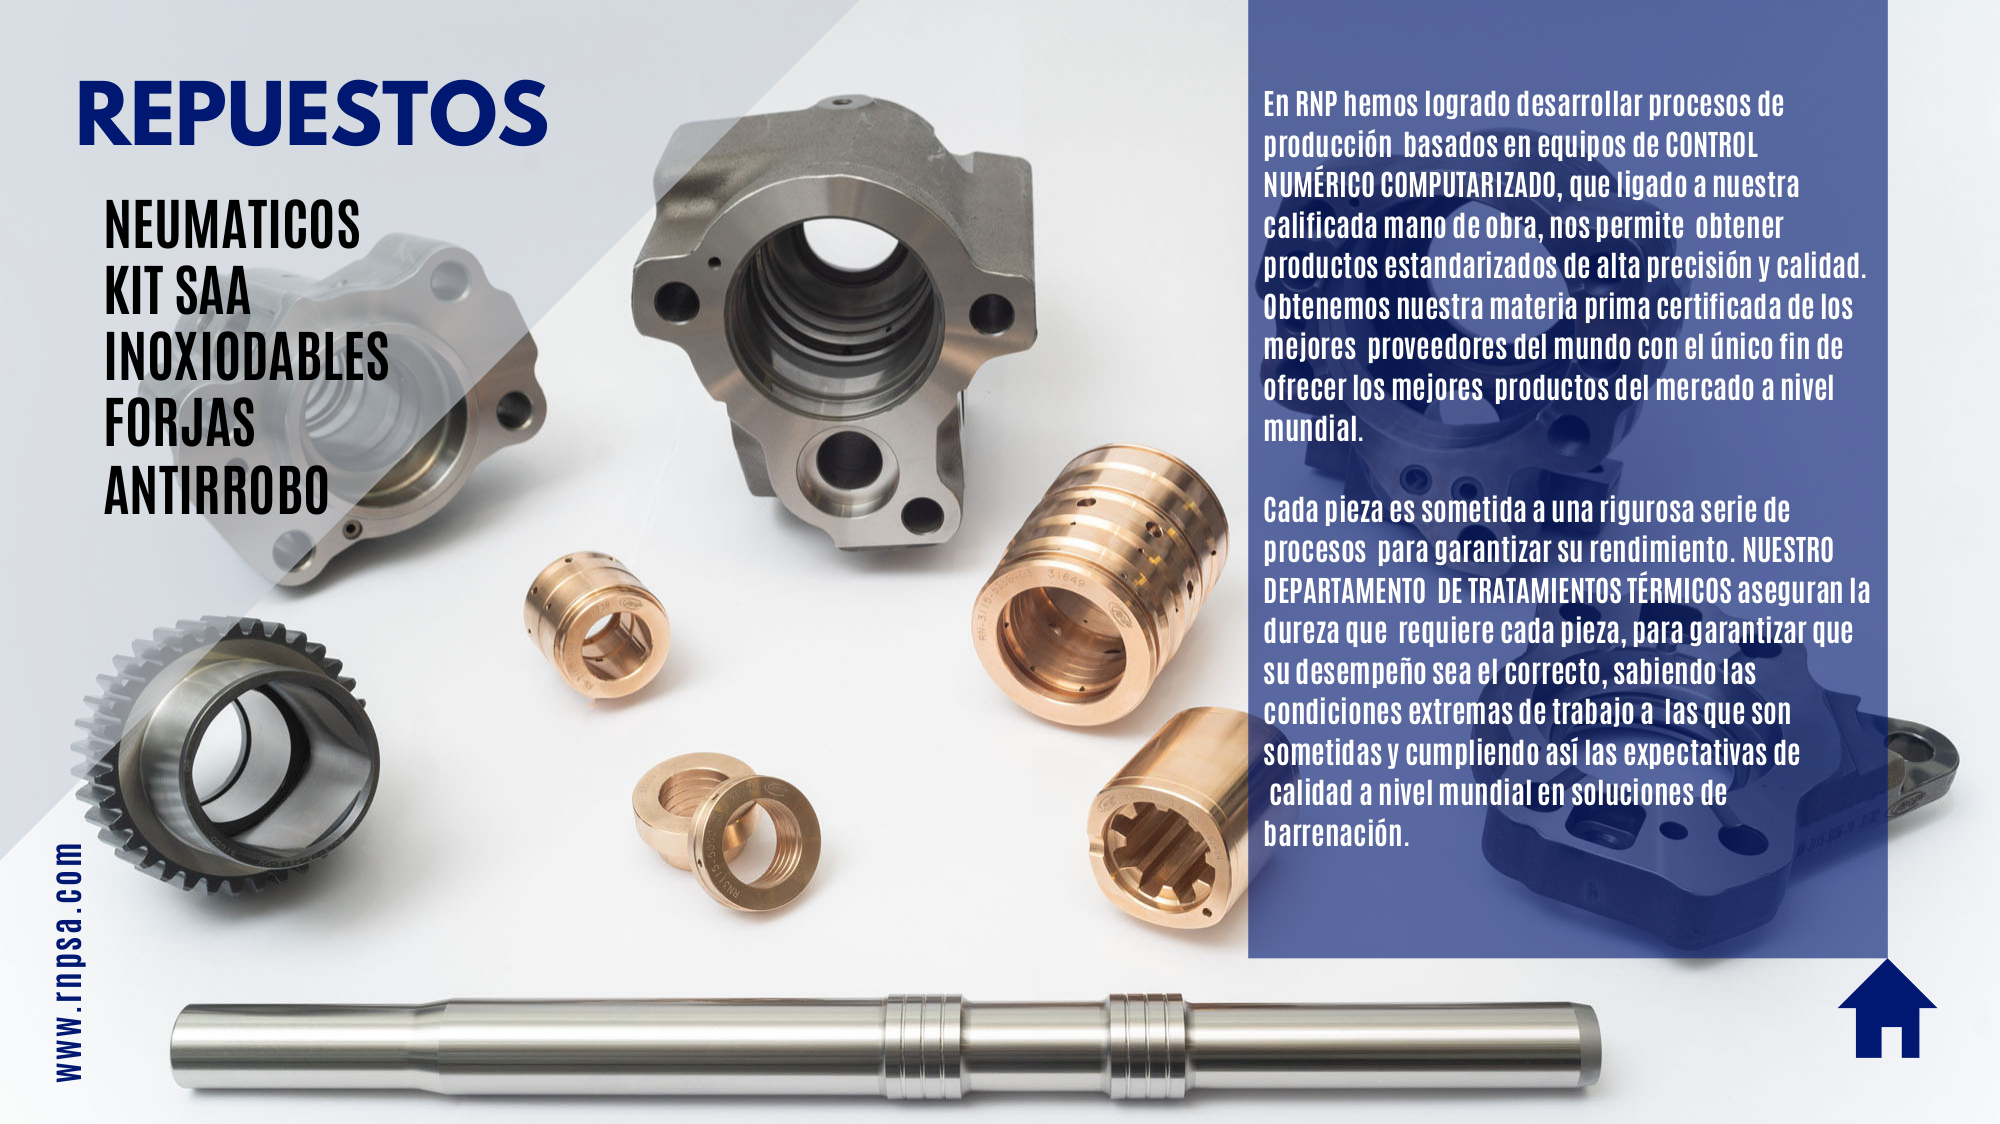
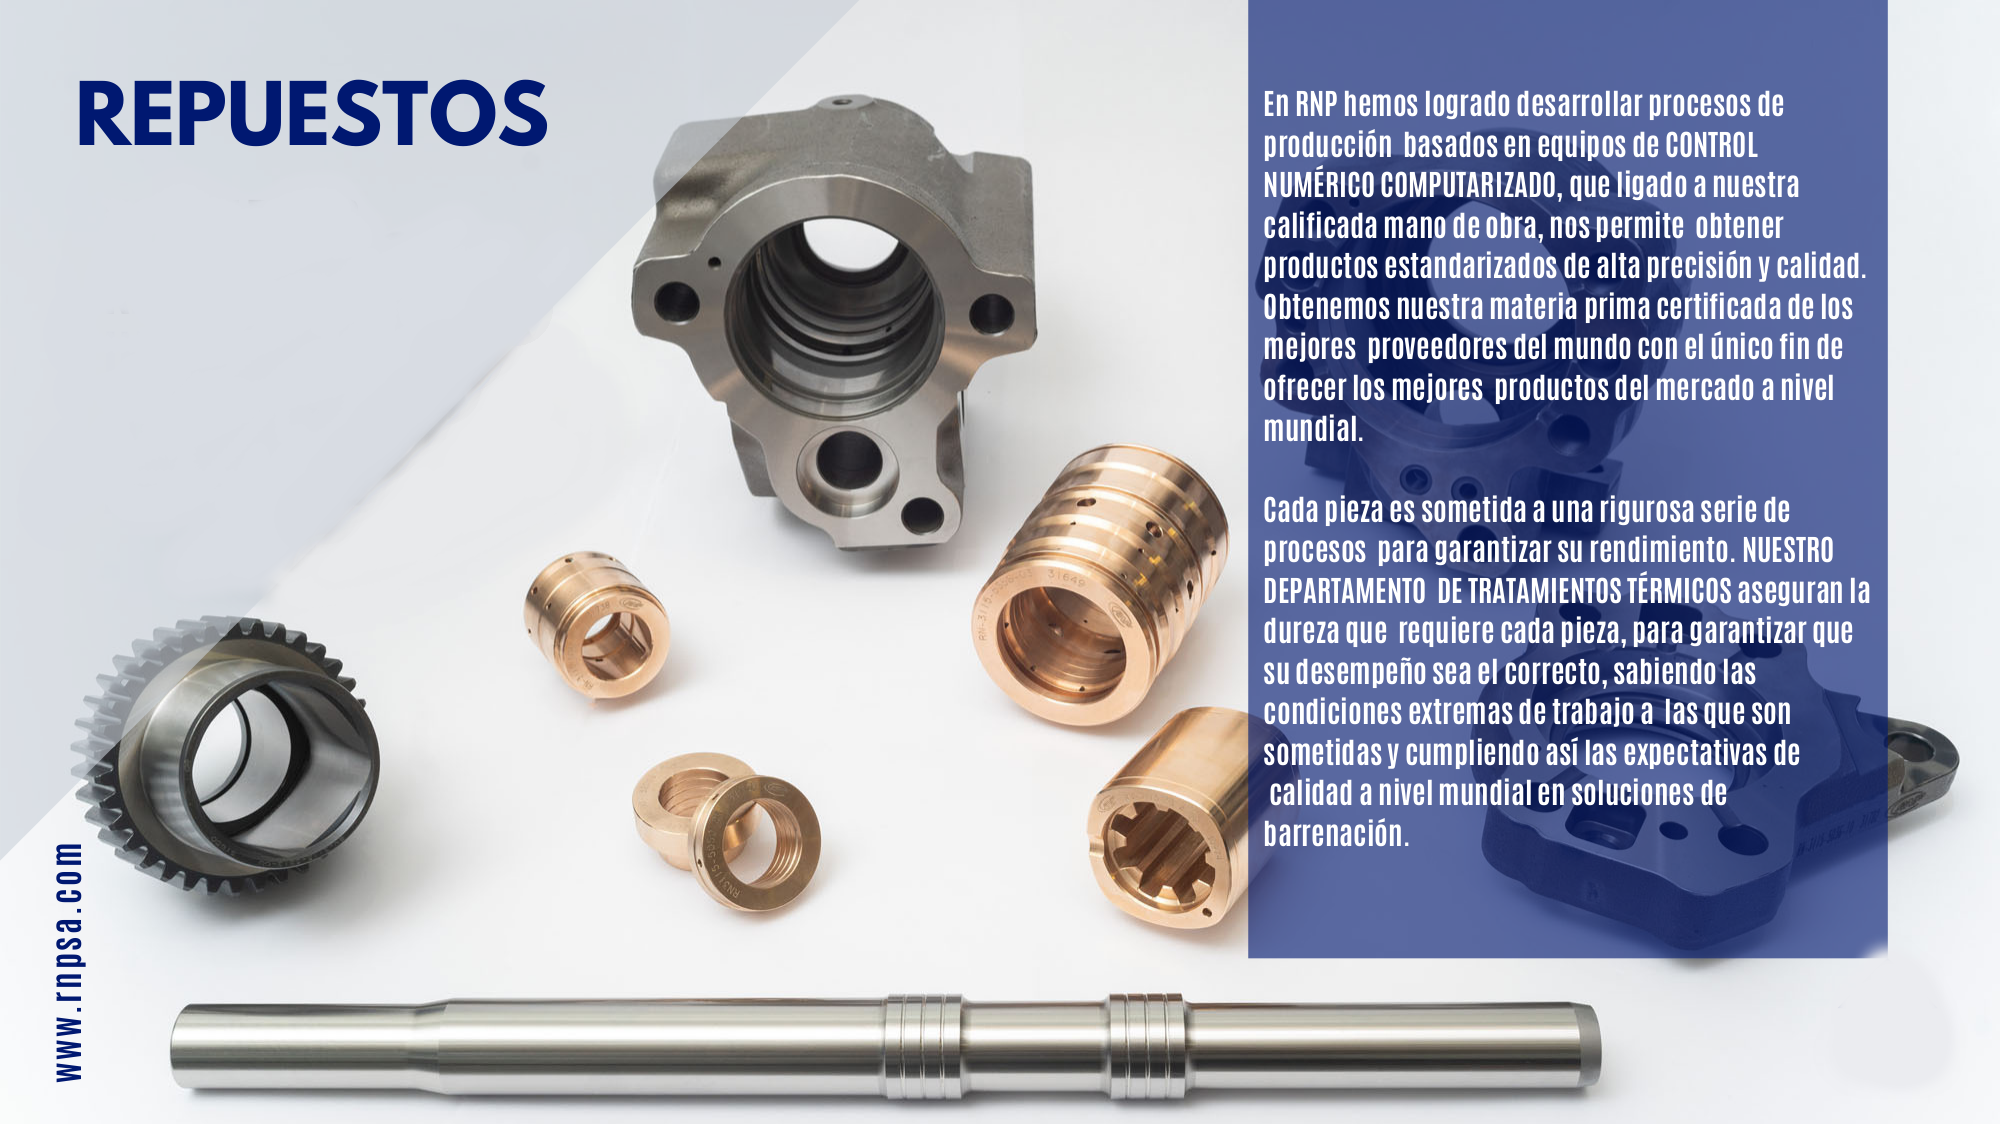
cambios

Changed region(s): [[0.031, 0.1557, 0.279, 0.5605], [0.899, 0.8407, 0.961, 0.9653]]

diff --git a/src/app/components/perf-neum/perf-neum.component.html b/src/app/components/perf-neum/perf-neum.component.html
@@ -6,17 +6,22 @@
   <div class="menu d-flex flex-column">
     <div class="col d-flex align-items-center justify-content-center">
       <button type="button" class="w-25 p-4 btn btn-light btn-lg m-2">RN-S83FX</button>
-      <button type="button" class="w-25 p-4 btn btn-light btn-lg m-2">RN-S83FX</button>
-      <button type="button" class="w-25 p-4 btn btn-light btn-lg m-2">RN-S83FX</button>
+      <button type="button" class="w-25 p-4 btn btn-light btn-lg m-2">RN-RB83FX</button>
+      <button type="button" class="w-25 p-4 btn btn-light btn-lg m-2">RN-S83FS</button>
     </div>
     <div class="col d-flex align-items-center justify-content-center">
-      <button type="button" class="w-25 p-4 btn btn-primary btn-lg m-2">RN-S83FX</button>
-      <button type="button" class="w-25 p-4 btn btn-primary btn-lg m-2">RN-S83FX</button>
-      <button type="button" class="w-25 p-4 btn btn-primary btn-lg m-2">RN-S83FX</button>
+      <button type="button" class="w-25 p-4 btn btn-light btn-lg m-2">RN-250X</button>
+      <button type="button" class="w-25 p-4 btn btn-light btn-lg m-2">RN-250S</button>
+      <button type="button" class="w-25 p-4 btn btn-light btn-lg m-2">RN-S58S</button>
     </div>
     <div class="col d-flex align-items-center justify-content-center">
-      <button type="button" class="w-25 p-4 btn btn-secondary btn-lg m-2">RN-S83FX</button>
-      <button type="button" class="w-25 p-4 btn btn-secondary btn-lg m-2">RN-S83FX</button>
+      <button type="button" class="w-25 p-4 btn btn-primary btn-lg m-2">JACKLEGS</button>
+      <button type="button" class="w-25 p-4 btn btn-primary btn-lg m-2">STOPPERS</button>
+      <button type="button" class="w-25 p-4 btn btn-primary btn-lg m-2">SINKERS</button>
+    </div>
+    <div class="col d-flex align-items-center justify-content-center">
+      <button type="button" class="w-25 p-4 btn btn-light btn-lg m-2">FAM RN-83</button>
+      <button type="button" class="w-25 p-4 btn btn-light btn-lg m-2">FAM RN-250</button>
     </div>
   </div>
 </div>

diff --git a/src/app/components/perf-hidr/perf-hidr.component.html b/src/app/components/perf-hidr/perf-hidr.component.html
@@ -5,16 +5,16 @@
   </div>
   <div class="menu d-flex flex-column">
     <div class="col d-flex align-items-center justify-content-center">
-      <button type="button" class="w-25 p-4 btn btn-primary btn-lg m-2">RN-S83FX</button>
-      <button type="button" class="w-25 p-4 btn btn-primary btn-lg m-2">RN-S83FX</button>
+      <button type="button" class="w-25 p-4 btn btn-primary btn-lg m-2">RN-200</button>
+      <button type="button" class="w-25 p-4 btn btn-primary btn-lg m-2">RN-0338</button>
     </div>
     <div class="col d-flex align-items-center justify-content-center">
-      <button type="button" class="w-25 p-4 btn btn-primary btn-lg m-2">RN-S83FX</button>
-      <button type="button" class="w-25 p-4 btn btn-primary btn-lg m-2">RN-S83FX</button>
+      <button type="button" class="w-25 p-4 btn btn-primary btn-lg m-2">RN-300</button>
+      <button type="button" class="w-25 p-4 btn btn-primary btn-lg m-2">RN-0238</button>
     </div>
     <div class="col d-flex align-items-center justify-content-center">
-      <button type="button" class="w-25 p-4 btn btn-secondary btn-lg m-2">RN-S83FX</button>
-      <button type="button" class="w-25 p-4 btn btn-secondary btn-lg m-2">RN-S83FX</button>
+      <button type="button" style="width: 35% !important;" class="p-4 btn btn-secondary btn-lg m-2">RN-300 vs RN-200</button>
+      <button type="button" style="width: 35% !important;" class="p-4 btn btn-secondary btn-lg m-2">RN-0338 vs RN-0238</button>
     </div>
   </div>
 </div>

diff --git a/src/app/components/empuj-malla/empuj-malla.component.spec.ts b/src/app/components/empuj-malla/empuj-malla.component.spec.ts
@@ -1,0 +1,25 @@
+import { async, ComponentFixture, TestBed } from '@angular/core/testing';
+
+import { EmpujMallaComponent } from './empuj-malla.component';
+
+describe('EmpujMallaComponent', () => {
+  let component: EmpujMallaComponent;
+  let fixture: ComponentFixture<EmpujMallaComponent>;
+
+  beforeEach(async(() => {
+    TestBed.configureTestingModule({
+      declarations: [ EmpujMallaComponent ]
+    })
+    .compileComponents();
+  }));
+
+  beforeEach(() => {
+    fixture = TestBed.createComponent(EmpujMallaComponent);
+    component = fixture.componentInstance;
+    fixture.detectChanges();
+  });
+
+  it('should create', () => {
+    expect(component).toBeTruthy();
+  });
+});

diff --git a/src/app/app-routing.module.ts b/src/app/app-routing.module.ts
@@ -1,6 +1,7 @@
 import { NgModule } from '@angular/core';
 import { Routes, RouterModule } from '@angular/router';
-import { PerfNeumComponent, PerfHidrComponent, RepuestosComponent } from './components';
+import { PerfNeumComponent, PerfHidrComponent, RepuestosComponent, EmpujMallaComponent } from './components';
+import { VigaComponent } from './components/viga/viga.component';
 
 const routes: Routes = [
   {
@@ -18,6 +19,14 @@ const routes: Routes = [
   {
     path: 'repuestos',
     component: RepuestosComponent
+  },
+  {
+    path: 'empujmalla',
+    component: EmpujMallaComponent
+  },
+  {
+    path: 'viga',
+    component: VigaComponent
   },
   {
     path: '**',

diff --git a/src/app/app.module.ts b/src/app/app.module.ts
@@ -5,13 +5,17 @@ import { AppRoutingModule } from './app-routing.module';
 import { AppComponent } from './app.component';
 import { PerfNeumComponent, PerfHidrComponent } from './components';
 import { RepuestosComponent } from './components/repuestos/repuestos.component';
+import { EmpujMallaComponent } from './components/empuj-malla/empuj-malla.component';
+import { VigaComponent } from './components/viga/viga.component';
 
 @NgModule({
   declarations: [
     AppComponent,
     PerfNeumComponent,
     PerfHidrComponent,
-    RepuestosComponent
+    RepuestosComponent,
+    EmpujMallaComponent,
+    VigaComponent
   ],
   imports: [
     BrowserModule,

diff --git a/src/app/components/viga/viga.component.spec.ts b/src/app/components/viga/viga.component.spec.ts
@@ -1,0 +1,25 @@
+import { async, ComponentFixture, TestBed } from '@angular/core/testing';
+
+import { VigaComponent } from './viga.component';
+
+describe('VigaComponent', () => {
+  let component: VigaComponent;
+  let fixture: ComponentFixture<VigaComponent>;
+
+  beforeEach(async(() => {
+    TestBed.configureTestingModule({
+      declarations: [ VigaComponent ]
+    })
+    .compileComponents();
+  }));
+
+  beforeEach(() => {
+    fixture = TestBed.createComponent(VigaComponent);
+    component = fixture.componentInstance;
+    fixture.detectChanges();
+  });
+
+  it('should create', () => {
+    expect(component).toBeTruthy();
+  });
+});

diff --git a/src/app/components/repuestos/repuestos.component.scss b/src/app/components/repuestos/repuestos.component.scss
@@ -1,14 +1,21 @@
 :host {
   flex: 1;
+  display: flex;
+  align-items: center;
   color: var(--dark);
-  display: grid;
-  grid-template-areas: 'main';
-  grid-template-rows: 1fr;
-}
-
-.main {
-  grid-area: main;
   background-image: url(../../../assets/img/repuestos.png);
   background-repeat: no-repeat;
   background-size: 100% 100%;
+  box-sizing: border-box;
+
+}
+
+.card {
+  opacity: 0.9;
+}
+
+
+.list-group-item {
+  font-size: 1.3rem;
+  font-weight: bolder;
 }

diff --git a/src/app/components/repuestos/repuestos.component.html b/src/app/components/repuestos/repuestos.component.html
@@ -1,1 +1,9 @@
-<div class="main"></div>
+<div class="card bg-transparent m-4" style="flex: 0 0 30%;">
+  <ul class=" bg-transparent list-group list-group-flush">
+    <li class="list-group-item">NEUMATICOS</li>
+    <li class="list-group-item">KIT SAA</li>
+    <li class="list-group-item">INOXIDABLES</li>
+    <li class="list-group-item">FORJAS</li>
+    <li class="list-group-item">ANTIRROBO</li>
+  </ul>
+</div>

diff --git a/src/app/app.component.html b/src/app/app.component.html
@@ -12,10 +12,10 @@
     <li [routerLink]="['/repuestos']" class="list-inline-item">
       REPUESTOS
     </li>
-    <li class="list-inline-item">
+    <li [routerLink]="['/empujmalla']" class="list-inline-item">
       EMPUJADOR DE MALLA
     </li>
-    <li class="list-inline-item">
+    <li [routerLink]="['/viga']" class="list-inline-item">
       VIGA
     </li>
     <li class="list-inline-item">

diff --git a/src/app/components/empuj-malla/empuj-malla.component.ts b/src/app/components/empuj-malla/empuj-malla.component.ts
@@ -1,0 +1,15 @@
+import { Component, OnInit } from '@angular/core';
+
+@Component({
+  selector: 'app-empuj-malla',
+  templateUrl: './empuj-malla.component.html',
+  styleUrls: ['./empuj-malla.component.scss']
+})
+export class EmpujMallaComponent implements OnInit {
+
+  constructor() { }
+
+  ngOnInit() {
+  }
+
+}

diff --git a/src/app/components/viga/viga.component.ts b/src/app/components/viga/viga.component.ts
@@ -1,0 +1,15 @@
+import { Component, OnInit } from '@angular/core';
+
+@Component({
+  selector: 'app-viga',
+  templateUrl: './viga.component.html',
+  styleUrls: ['./viga.component.scss']
+})
+export class VigaComponent implements OnInit {
+
+  constructor() { }
+
+  ngOnInit() {
+  }
+
+}

diff --git a/src/app/components/index.ts b/src/app/components/index.ts
@@ -2,3 +2,4 @@ export * from './home/home.component';
 export * from './perf-neum/perf-neum.component';
 export * from './perf-hidr/perf-hidr.component';
 export * from './repuestos/repuestos.component';
+export * from './empuj-malla/empuj-malla.component';
